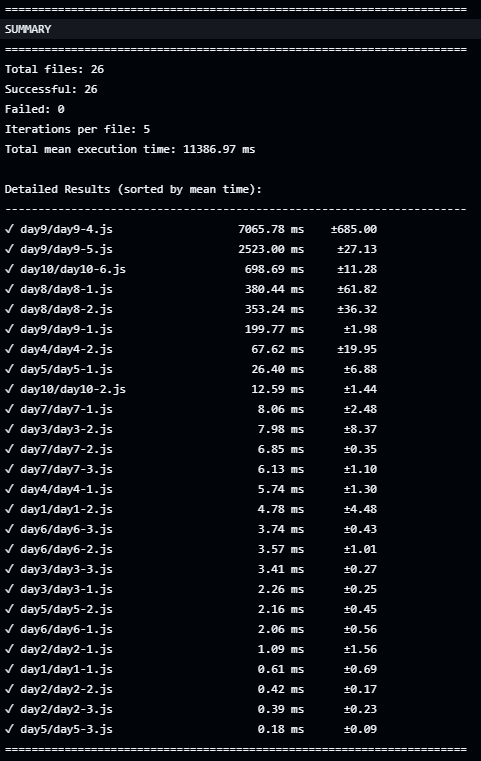
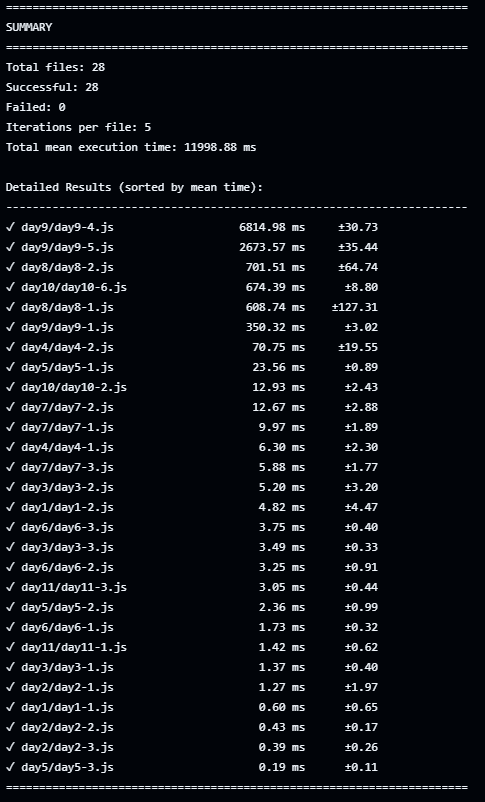
added day11 and updated benchmarks

Changed region(s): [[0.0, 0.0, 0.9667, 0.9974]]

diff --git a/day11/day11-3.js b/day11/day11-3.js
@@ -1,0 +1,97 @@
+const fsPromises = require("fs").promises;
+const path = require("path");
+
+async function countPaths() {
+  // Read the input file
+  const contents = await fsPromises.readFile(
+    path.join(__dirname, "../inputs/11-1.txt"),
+    "utf-8"
+  );
+
+  // Parse the input to build a graph representation
+  const graph = {};
+  const lines = contents.trim().split("\n");
+
+  for (const line of lines) {
+    const cleanLine = line.trim();
+    const [device, outputsStr] = cleanLine.split(": ");
+    const outputs = outputsStr.split(" ");
+    graph[device] = outputs;
+  }
+
+  const specifiedValue1 = "dac";
+  const specifiedValue2 = "fft";
+
+  // NEW ALGORITHM: Dynamic Programming with memoization
+  // Key insight: We need paths that go through BOTH dac and fft
+  // Break this into subproblems:
+  // 1. Count paths from svr -> dac -> fft -> out
+  // 2. Count paths from svr -> fft -> dac -> out
+
+  console.log("Computing paths with DP...");
+
+  // Memoization: cache[node][visitedDac][visitedFft] = number of paths to "out"
+  const memo = new Map();
+
+  function getMemoKey(node, hasDac, hasFft) {
+    return `${node}|${hasDac}|${hasFft}`;
+  }
+
+  function countPathsDP(current, hasDac, hasFft, visited) {
+    // Base case: reached "out"
+    if (current === "out") {
+      return hasDac && hasFft ? 1 : 0;
+    }
+
+    // Check memo
+    const key = getMemoKey(current, hasDac, hasFft);
+    if (memo.has(key) && !visited.has(current)) {
+      return memo.get(key);
+    }
+
+    // No outputs
+    if (!graph[current]) {
+      return 0;
+    }
+
+    // Cycle detection
+    if (visited.has(current)) {
+      return 0;
+    }
+
+    visited.add(current);
+
+    // Update state based on current node
+    const newHasDac = hasDac || current === specifiedValue1;
+    const newHasFft = hasFft || current === specifiedValue2;
+
+    let totalPaths = 0;
+
+    // Explore all neighbors
+    for (const next of graph[current]) {
+      totalPaths += countPathsDP(next, newHasDac, newHasFft, visited);
+    }
+
+    visited.delete(current);
+
+    // Only memoize if we haven't visited this node (to handle cycles properly)
+    if (!visited.has(current)) {
+      memo.set(key, totalPaths);
+    }
+
+    return totalPaths;
+  }
+
+  const result = countPathsDP("svr", false, false, new Set());
+
+  console.log(
+    `Number of paths from 'svr' to 'out' that visit both '${specifiedValue1}' and '${specifiedValue2}': ${result}`
+  );
+  return result;
+}
+
+module.exports = countPaths;
+
+if (require.main === module) {
+  countPaths();
+}

diff --git a/day11/day11-1.js b/day11/day11-1.js
@@ -1,0 +1,58 @@
+const fsPromises = require("fs").promises;
+const path = require("path");
+
+async function countPaths() {
+  // Read the input file
+  const contents = await fsPromises.readFile(
+    path.join(__dirname, "../inputs/11-1.txt"),
+    "utf-8"
+  );
+
+  // Parse the input to build a graph representation
+  const graph = {};
+  const lines = contents.trim().split("\n");
+
+  for (const line of lines) {
+    const cleanLine = line.trim(); // Remove any \r or extra whitespace
+    const [device, outputsStr] = cleanLine.split(": ");
+    const outputs = outputsStr.split(" ");
+    graph[device] = outputs;
+  }
+
+  let pathCount = 0;
+
+  function dfs(current, visited) {
+    if (current === "out") {
+      pathCount++;
+      return;
+    }
+
+    // If this device has no outputs , stop
+    if (!graph[current]) {
+      return;
+    }
+
+    visited.add(current);
+
+    for (const next of graph[current]) {
+      if (!visited.has(next)) {
+        dfs(next, visited);
+      }
+    }
+
+    // Backtrack: remove current from visited for other paths
+    visited.delete(current);
+  }
+
+  // Start DFS from "you"
+  dfs("you", new Set());
+
+  console.log(`Total number of paths from 'you' to 'out': ${pathCount}`);
+  return pathCount;
+}
+
+module.exports = countPaths;
+
+if (require.main === module) {
+  countPaths();
+}
